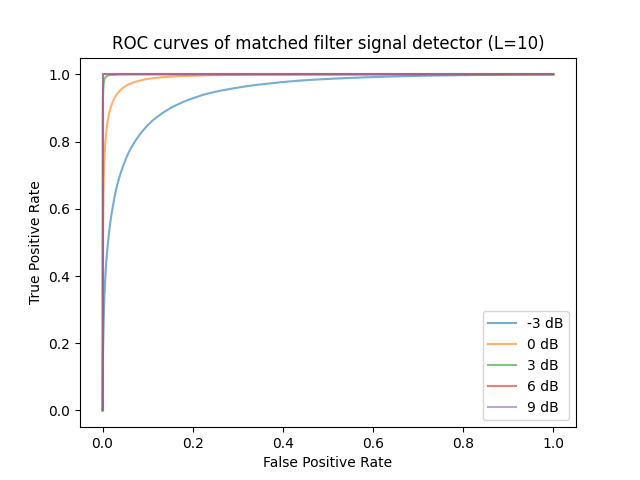
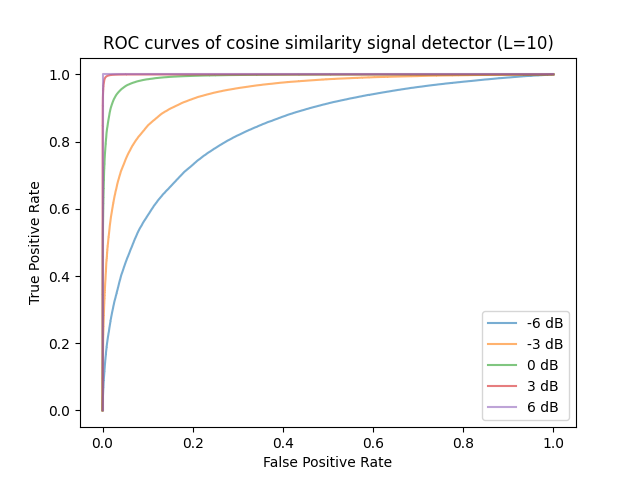
name error

diff --git a/images/posts/signaldetection_perf_cosinesim/cosinesim.py b/images/posts/signaldetection_perf_cosinesim/cosinesim.py
@@ -100,50 +100,6 @@ def plot_distribution(snr,L=50):
 
     plt.show()
 
-# investigate relationship between L and alpha beta
-# plt.figure()
-# for i, snr in enumerate([1,1.5, 2]):
-#     alphas, betas = [], []
-#     theoryalphas, theorybetas = [], []
-#     Ls = np.arange(2,50)
-#     for L in Ls:
-#         q2_0, q2_1 = simulate(snr, L)
-#         a, b,_,_ = beta.fit(q2_1, floc=0, fscale=1)
-#         alphas.append(a)
-#         betas.append(b)
-#         ta = snr*L*snr/(snr+1)
-#         tb = L*snr/(snr+1)
-#         theoryalphas.append(ta)
-#         theorybetas.append(tb)
-#         print(f"L={L:02d}, alpha={a:0.3f}, theory alpha={ta:0.3f}, beta={b:0.3f}, theory beta={tb:0.3f} , deltabeta = {tb/b:0.3f} ")
-
-
-
-#     plt.plot(Ls, np.array(alphas)/Ls, color=f"C{i}", label='alpha')
-#     # plt.plot(Ls, theoryalphas, color="C0", linestyle='--')
-#     plt.plot(Ls, np.array(betas)/Ls, linestyle='--', color=f"C{i}",label='betas')
-#     # plt.plot(Ls, theorybetas, color="C1", linestyle='--')
-# plt.show()
-
-# investigate relationship between beta slope and snr
-# plt.figure()
-# snrs = np.arange(1,20)
-# betafactor = []
-# for snr in snrs:
-#     q2_0, q2_1 = simulate(snr, L=50)
-#     a, b,_,_ = beta.fit(q2_1, floc=0, fscale=1)
-#     betafactor.append(b/50)
-# plt.plot(snrs, np.array(betafactor))
-# plt.xlabel('SNR')
-# plt.ylabel('beta slope')
-# plt.show()
-
-
-# for snr in range(1,20):
-#     plot_distribution(snr,L=3)
-
-
-
 def animate_distribution(L = 3):
     fig, ax0 =  plt.subplots()
     ax1 = ax0.twinx()
@@ -195,8 +151,8 @@ def animate_distribution(L = 3):
     ani.save(f'q2distribution_L_{L}.gif', writer='pillow', dpi=90)
 
 
-animate_distribution(L=3)
-animate_distribution(L=10)
+# animate_distribution(L=3)
+# animate_distribution(L=10)
 
 
 def plot_roc(L=3):
@@ -211,12 +167,12 @@ def plot_roc(L=3):
     plt.legend()
     plt.xlabel('False Positive Rate')
     plt.ylabel('True Positive Rate')
-    plt.title(f'ROC curves of matched filter signal detector (L={L})')
-    plt.savefig(f'matchfilter_roc_L_{L}.png')
+    plt.title(f'ROC curves of cosine similarity signal detector (L={L})')
+    plt.savefig(f'cosinesim_roc_L_{L}.png')
     plt.show()
 
-# plot_roc(L=3)
-# plot_roc(L=10)
+plot_roc(L=3)
+plot_roc(L=10)
 
 
 def compare_roc(L=3):
@@ -245,6 +201,6 @@ def compare_roc(L=3):
     plt.savefig(f'compare_roc_L_{L}.png')
     plt.show()
 
-compare_roc(L=3)
-compare_roc(L=10)
-compare_roc(L=30)
+# compare_roc(L=3)
+# compare_roc(L=10)
+# compare_roc(L=30)
